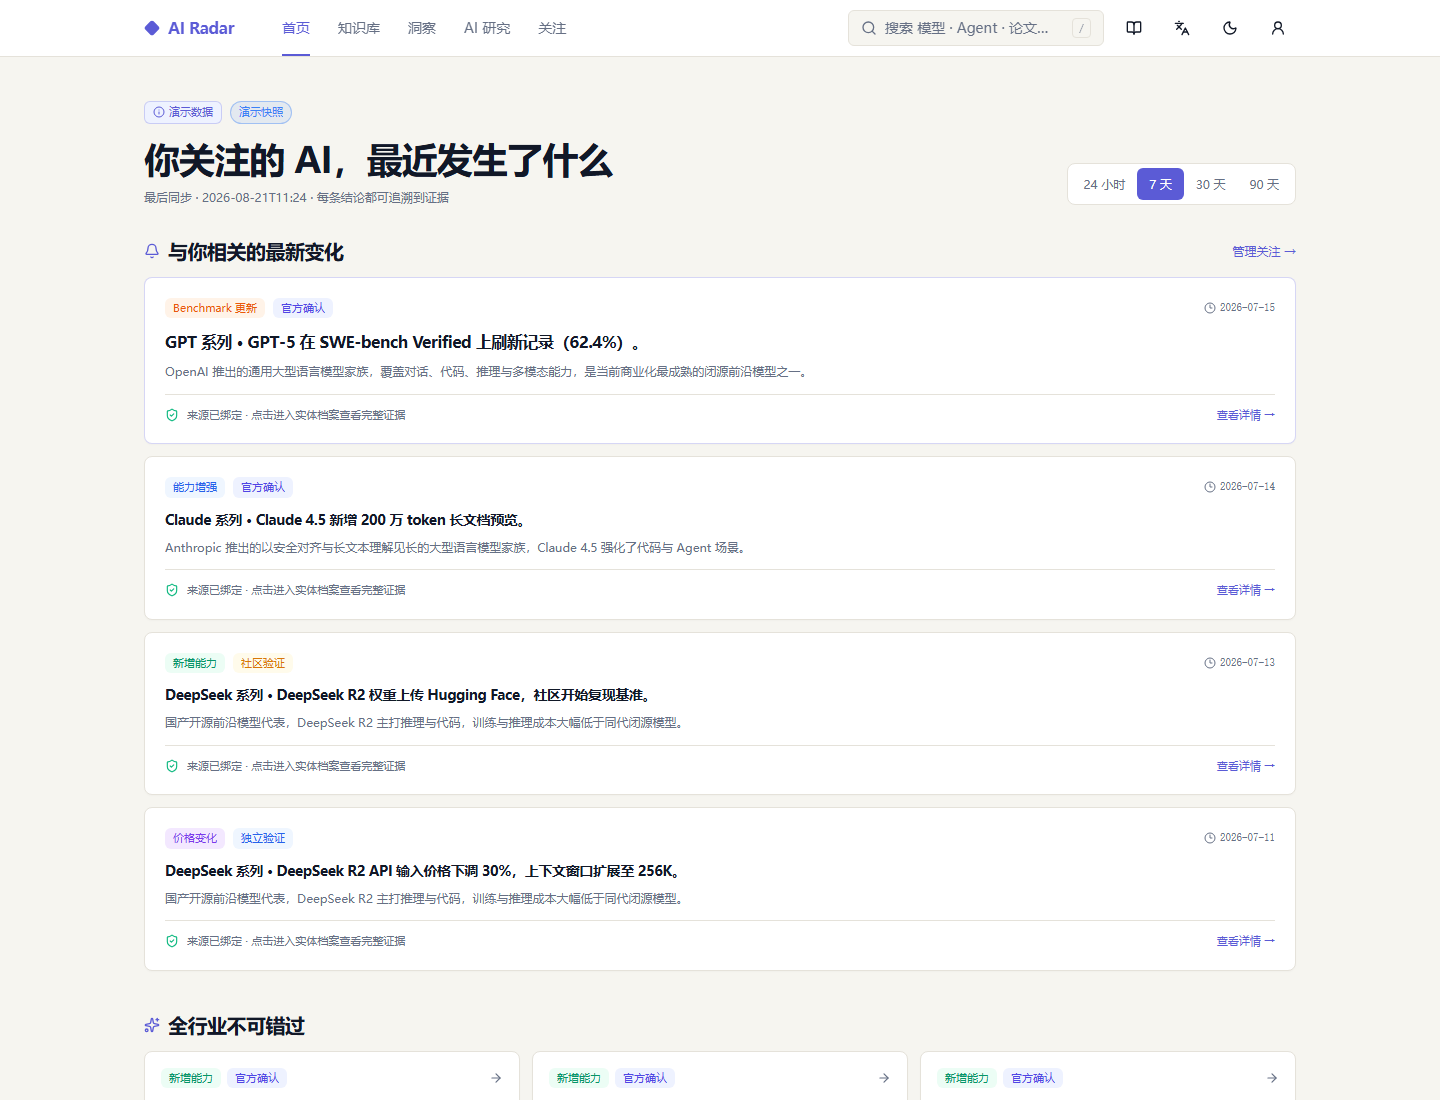
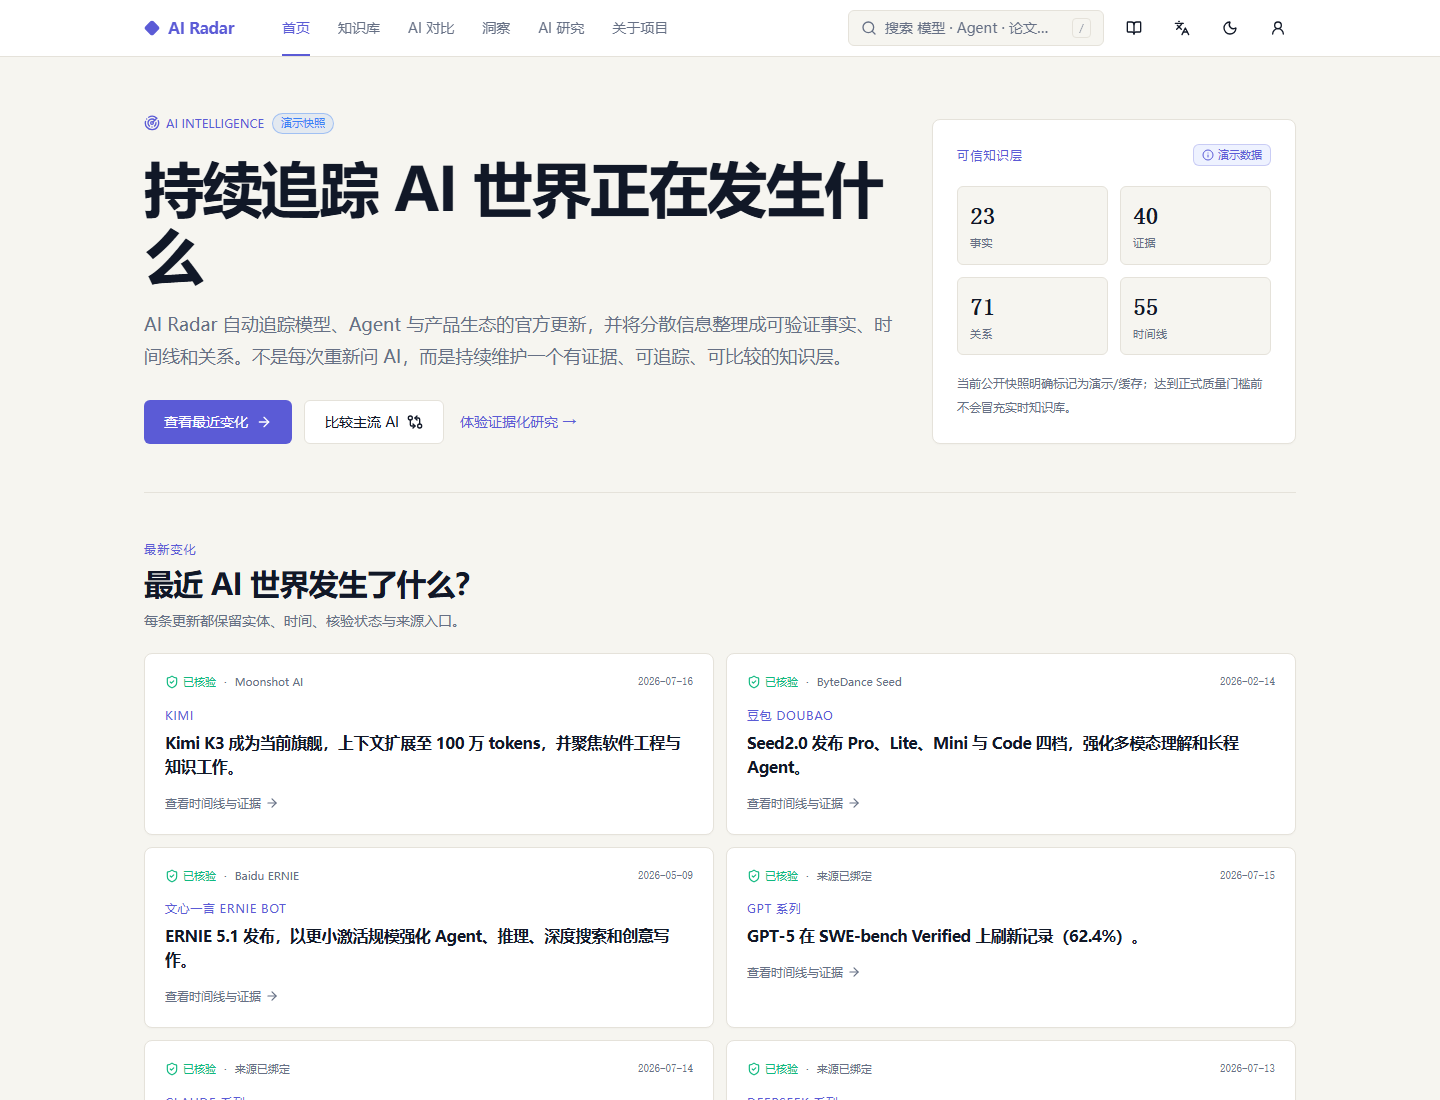
fix: harden staging portfolio deployment

diff --git a/src/services/knowledge-repository.ts b/src/services/knowledge-repository.ts
@@ -160,7 +160,11 @@ class HttpKnowledgeRepository implements KnowledgeRepository {
   }
 }
 
-const apiBaseUrl = import.meta.env.VITE_API_BASE_URL?.trim();
+// 浏览器通过 Cloudflare 同域代理访问 API；SSR 若回调同一个 Worker 会被
+// Cloudflare 拒绝，因此服务端直接使用公开的 Render 上游地址。
+const apiBaseUrl = (
+  import.meta.env.SSR ? import.meta.env.VITE_API_UPSTREAM_URL : import.meta.env.VITE_API_BASE_URL
+)?.trim();
 
 export const knowledgeRepository: KnowledgeRepository = apiBaseUrl
   ? new HttpKnowledgeRepository(apiBaseUrl.replace(/\/$/, ""))

diff --git a/docs/SHOWCASE_IMPLEMENTATION_PLAN.md b/docs/SHOWCASE_IMPLEMENTATION_PLAN.md
@@ -17,15 +17,15 @@
 | Phase | 状态 | 验收说明 |
 | --- | --- | --- |
 | 0 — Baseline | 已完成 | 已记录线上计数、数据模式、版本、来源比例和核心实体覆盖；未知指标不伪造 |
-| 1 — Public Homepage | 已实现，待线上验收 | 静态产品叙事不被 API loading 阻断；包含 Latest Changes、核心实体、Why ChatGPT、三种体验和 Trust Layer |
-| 2 — Entity / Timeline | 已存在 | 系列与具体版本详情、关键事实、Timeline、Relation、Evidence 已复用；需要补作品集截图 |
-| 3 — Compare | 已实现，待线上验收 | 默认 GPT、Claude、Gemini 系列级路线比较，可切换具体版本，底层支持任意可比较模型 |
-| 4 — Research | 已实现，待线上验收 | 未登录可运行三条预置路径；证据不足时明确拒答；登录后仍使用私密真实研究 |
+| 1 — Public Homepage | 已完成 | 静态产品叙事不被 API loading 阻断；包含 Latest Changes、核心实体、Why ChatGPT、三种体验和 Trust Layer，线上截图已验收 |
+| 2 — Entity / Timeline | 已完成 | 系列与具体版本详情、关键事实、Timeline、Relation、Evidence 已复用；SSR 直连上游，线上 GPT Timeline 已验收 |
+| 3 — Compare | 已完成 | 默认 GPT、Claude、Gemini 系列级路线比较，可切换具体版本，底层支持任意可比较模型，线上截图已验收 |
+| 4 — Research | 已完成 | 未登录可运行三条预置路径；证据不足时明确拒答；登录后仍使用私密真实研究，线上截图已验收 |
 | 5 — Showcase Dataset | 未满足 | 49 个实体不等于 10 个完整实体；需要继续采集、抽取和人工审核，不能靠硬编码勾选 |
 | 6 — Review Automation | 已有安全底座 | 风险分级、冲突、去重、批量审核与自动批准门槛已存在；扩大自动批准仍需真实精度样本 |
-| 7 — Case Study | 已实现，待线上验收 | 新增正式公开 `/case-study`，讲清问题、转向、关键决策、风险、取舍与边界 |
-| 8 — Portfolio Assets | 进行中 | README、截图、演示脚本、简历和面试材料需要统一为最新版产品叙事 |
-| 9 — Portfolio Release Gate | 待执行 | 完整 CI、匿名浏览器 Smoke、公开关键路径和管理边界验收完成后再给最终结论 |
+| 7 — Case Study | 已完成 | 正式公开 `/case-study`，讲清问题、转向、关键决策、风险、取舍与边界，线上截图已验收 |
+| 8 — Portfolio Assets | 已完成 | README、5 张核心体验截图、演示脚本、简历和面试材料已统一为最新版产品叙事 |
+| 9 — Portfolio Release Gate | 已完成 | 前端 68 项、后端 107 项、SQLite 与 PostgreSQL 迁移、GitHub CI、匿名线上 Smoke 和截图验收均通过 |
 | 10 — Production Evolution | 持续 | Claim、关系、黄金问题、SMTP、域名、监控、备份与 Live Mode 不阻塞作品集代码收敛 |
 
 ## 风险测试策略

diff --git a/docs/PORTFOLIO_ACCEPTANCE.md b/docs/PORTFOLIO_ACCEPTANCE.md
@@ -6,17 +6,38 @@
 
 | 范围 | 结果 | 证据 |
 | --- | --- | --- |
-| 桌面首页 | 通过 | Demo 标记、同步时间、证据入口和变化卡正常显示 |
+| 桌面首页 | 通过 | 产品价值、Trust Layer、Demo 边界、变化卡和三条核心路径正常显示 |
+| 模型 Timeline | 通过 | GPT 系列导读、最新变化、来源入口与关系分析入口正常显示 |
+| AI 路线对比 | 通过 | 默认比较 GPT、Claude、Gemini 三个系列，系列与具体版本边界明确 |
+| 证据研究 | 通过 | 未登录即可体验预置研究，事实、推断、未核验内容和来源分层显示 |
+| Case Study | 通过 | 问题、方案转向、产品决策、真实指标与 Showcase / Live 边界完整展示 |
 | 桌面图谱 | 通过 | 三种关系任务、分析对象、覆盖指标和关系证据正常显示 |
 | 移动图谱 | 通过 | 390×844 视口无页面级横向滚动，底部导航未遮挡主任务卡 |
 | 登录边界 | 通过 | 未登录访问 `/account` 时显示邮箱、密码和登录操作，不伪造账户状态 |
 | 只读审核后台 | 通过 | 权限边界、数据生产闭环、来源统计和空审核队列正常显示 |
 | 异常状态 | 通过 | 不存在的公开研究记录显示明确失败状态，没有回退为演示答案 |
-| 工程门禁 | 通过 | 前端 63 项测试和生产构建、后端 107 项测试、Ruff、编译与 SQLite 迁移通过；GitHub CI 继续验证 PostgreSQL |
+| 工程门禁 | 通过 | 前端 68 项测试、类型检查、Lint、生产与 staging 构建通过；后端 107 项测试、Ruff、编译与 SQLite 迁移通过；GitHub CI 已完成 PostgreSQL 迁移验证 |
+| 线上冒烟 | 通过 | 首页、公开快照代理、Timeline、Compare、Research、Case Study、只读审核页均返回 200，HTML 无错误边界 |
 
 ## 桌面首页
 
 ![AI Radar 桌面首页](assets/portfolio/home-desktop.png)
+
+## 模型 Timeline
+
+![AI Radar GPT 系列 Timeline](assets/portfolio/timeline-desktop.png)
+
+## AI 路线对比
+
+![AI Radar GPT、Claude 与 Gemini 路线对比](assets/portfolio/compare-desktop.png)
+
+## 证据研究
+
+![AI Radar 证据研究](assets/portfolio/research-desktop.png)
+
+## 产品 Case Study
+
+![AI Radar 产品 Case Study](assets/portfolio/case-study-desktop.png)
 
 ## 桌面关系图谱
 
